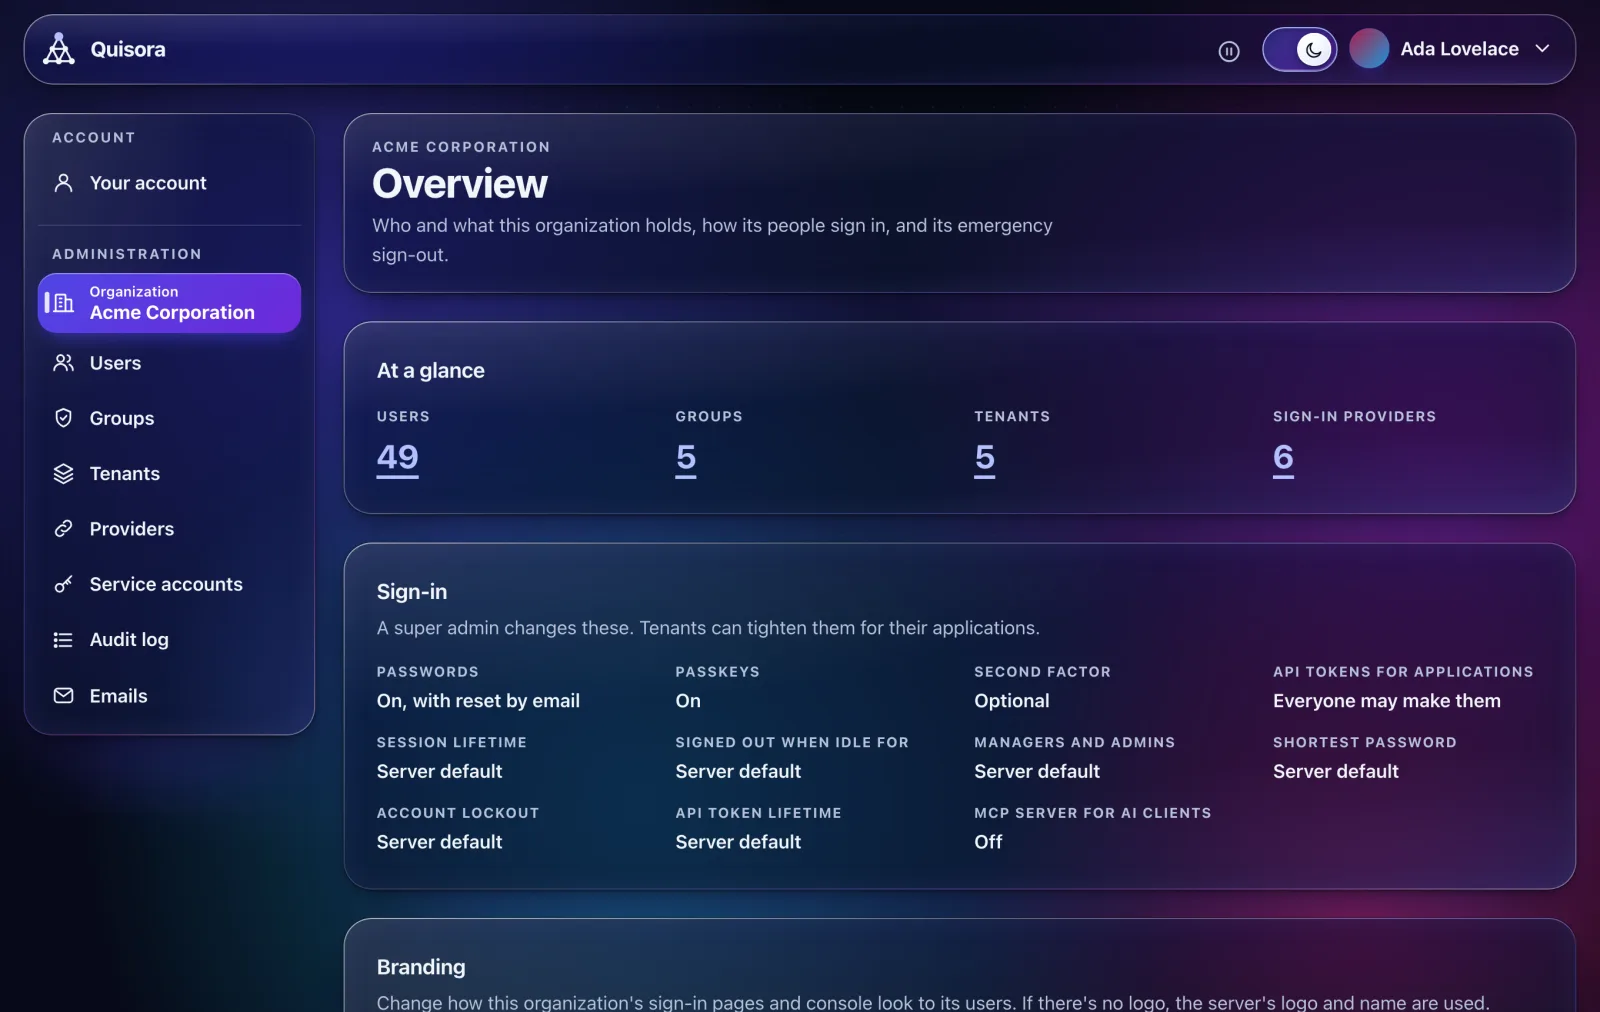
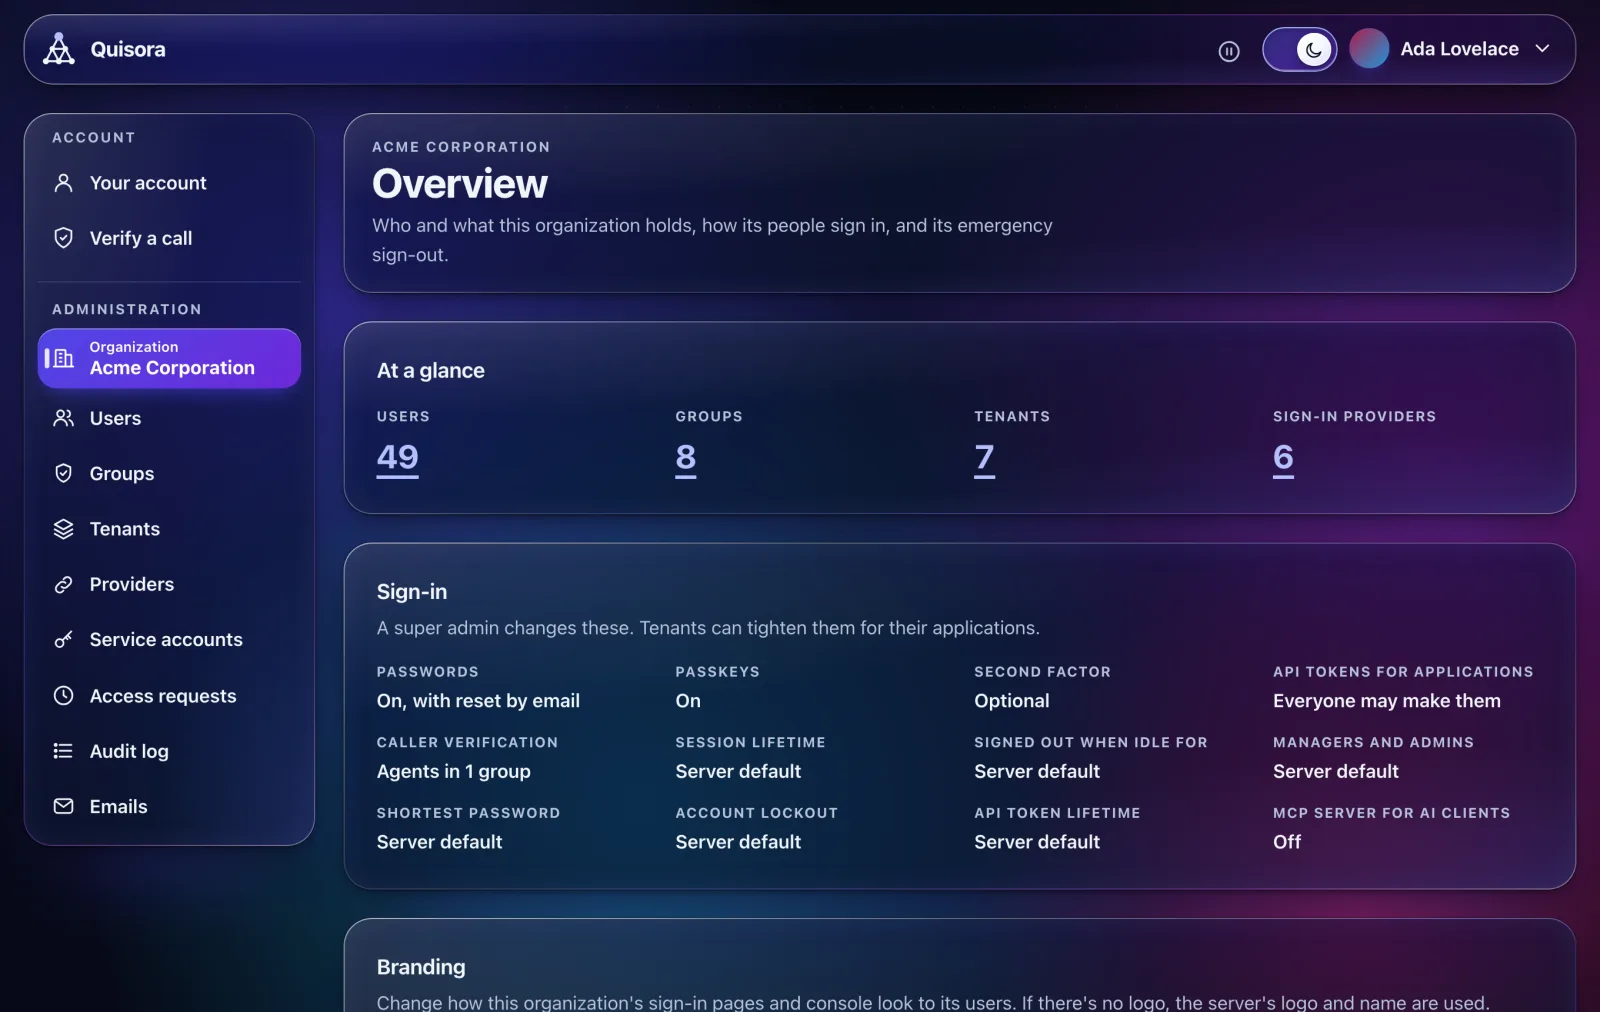
Docs: Verifying callers, a support agent confirms the person on a call is the account holder (setting it up, the agent's side, the caller's side, from a CRM, the relayed-code scam, records); call_verify token scope, call_verify.* audit events and the SOC 2 evidence row; organization overview shot re

diff --git a/content/docs/security/verifying-callers.md b/content/docs/security/verifying-callers.md
@@ -1,0 +1,154 @@
+---
+title: "Verifying callers"
+description: "Let your support team confirm that the person on a phone call is really the account holder."
+weight: 35
+---
+
+When someone phones your support team and says "I'm Alan", how does the agent know? Asking for a password or the
+answer to a security question is risky: anyone who learns it can use it again, and a scammer can talk an agent round.
+
+Caller verification gives the agent a better way. The agent starts a verification and reads a six-digit code to the
+caller. The caller opens their own account, enters the code, sees who is asking, and confirms it is them with their
+passkey or second factor. The agent's screen then shows **Confirmed**.
+
+Why it helps:
+
+- **Nothing secret is said on the phone.** The code works once, for that one person, for 5 minutes.
+- **Nothing is sent to the caller.** No link and no email. They go to their own account on the address they already
+  know, so nobody can send them to a look-alike page.
+- **The caller sees who is really asking.** Entering the code shows them the agent's name and email, the organization,
+  and why. If that's not who they think they are talking to, they can say so.
+
+## Setting it up
+
+A **super admin** turns it on, one organization at a time.
+
+1. Make a group for the people who verify callers, such as *Customer support*, and add the agents to it. These people
+   are called **agents**.
+2. Open **Organizations** and edit the organization.
+3. Under **Caller verification**, turn on **Agents can verify callers**.
+4. In **Agent groups**, type the group's name and choose it. You can add more than one group.
+5. Choose **Save changes**.
+
+{{< screenshot name="verify-settings" alt="The Edit organization dialog with Caller verification: Agents can verify callers on, the Customer support agent group, and the switch that lets the primary organization's agents verify this organization's people" class="max-w-2xl" >}}
+
+Agents verify the people of their own organization. While the switch is on, only administrators can change who is in
+an agent group. Managers can't add themselves or anyone else.
+
+**Let the primary organization's agents verify this organization's people** is offered in every organization except
+the primary one. Turn it on if your own support team, in the primary organization, also supports this organization's
+people. Only the primary organization's agents can ever verify people of another organization.
+
+Once it is on, people who can be verified see **Verify a call** in their account menu. Agents also see
+**Verify a caller** at the top of theirs.
+
+## Verifying a caller
+
+This is the agent's side.
+
+1. Open the account menu and choose **Verify a caller**.
+2. If you are an agent of the primary organization and another organization lets you verify its people, choose the
+   **Organization** first. It starts as your own.
+3. In **Person**, type the start of the caller's name, username or email, and choose them.
+4. Under **Who called?**, choose **They called us** or **We called them**. Only call people on the number held for
+   their account, never a number the caller gives you.
+5. Optionally fill in **Why**, such as the ticket you are talking about. The caller sees it.
+6. Choose **Start verification**.
+
+{{< screenshot name="verify-caller-start" alt="The Verify a caller page with Alan Turing chosen, They called us selected and a reason filled in" >}}
+
+7. Read the code to the caller. Tell them to open **Verify a call** in their account menu. The page shows the address
+   too.
+
+{{< screenshot name="verify-caller-waiting" alt="Verify a caller while waiting: the six-digit code to read out, how long it works, and today's verifications below with each result" >}}
+
+The page shows the answer as soon as the caller gives it:
+
+| Result | What it means |
+| --- | --- |
+| **Waiting** | The caller has not answered yet. The code works for 5 minutes. |
+| **Confirmed** | The caller entered the code and confirmed it is them with a passkey or second factor. If their account has neither, they confirmed with their password alone, and the page says so. |
+| **Not them** | The caller entered the code and chose **Not me**. Treat the call with suspicion. |
+| **Ran out** | Nobody entered the code in time. Start again if you need to. |
+| **Cancelled** | You stopped it. |
+
+**Your verifications today** lists the ones you started, with the newest first. A waiting one has **Open** and
+**Cancel**.
+
+If you reload the page, the waiting verification comes back with its code. In another browser it comes back without
+the code: cancel it and start a new one if the caller hasn't got it.
+
+An agent can't verify themselves, or a super admin. Each agent can start up to 60 verifications an hour.
+
+## Verifying a call
+
+This is the caller's side: someone on a call with your support team.
+
+1. Open the account menu and choose **Verify a call**.
+2. Look at **Verifying you now**. It shows who has started a verification for you, from which organization, and why.
+   It never shows the code. If someone on the phone asks you for a code and nobody shows here, they didn't start a
+   verification.
+3. Enter the six digits you were given. They are checked as soon as all six are in.
+
+{{< screenshot name="verify-call-enter" alt="The Verify a call page: Grace Hopper of Acme Corporation is verifying you now, the boxes for the code, and the Who verified you list" >}}
+
+4. Check what the page shows: who is asking, from where, who placed the call (such as "You called Acme
+   Corporation"), and why.
+5. Read the warning. Only confirm if you are on a call with that person right now, and the call went the way the page
+   says.
+6. Choose **Yes, it's me**. You may be asked for your passkey or second factor first, unless you used it in the last 5
+   minutes. Or choose **Not me** if it isn't your call, and the agent sees **Not them**.
+
+{{< screenshot name="verify-call-ask" alt="Is this you? Who is asking, from which organization, who placed the call and why, a warning, and the buttons Yes, it's me and Not me" >}}
+
+After 5 wrong codes in 10 minutes, the page stops taking codes for a while.
+
+**Who verified you**, lower on the same page, lists everyone who asked to verify you: who, from where, when, and what
+came of it. If you see one you don't recognise, tell the organization it came from.
+
+## From a CRM or helpdesk
+
+Your CRM or helpdesk can have its own **Verify** button that does what the page does. It always acts as the agent, so
+the caller sees the agent's own name. A service account can't verify callers.
+
+There are two ways to connect it:
+
+- **The agent's personal API token** with the `call_verify` scope. Agents see **Verify callers as you** when they make
+  a token on their account page. The CRM keeps one token for each agent. See [API tokens](/docs/automation/api-tokens/).
+- **The agent signs in to the CRM through Quisora.** The CRM asks for the organization's caller verification API as a
+  resource, and calls it with the agent's own short-lived token. The organization's overview lists that address under
+  **Addresses** as **Caller verification API (for CRMs)** while caller verification is on. Add the same address under
+  **Resources** on the CRM's application in Quisora, as for an [MCP client](/docs/automation/mcp/).
+
+The calls are in the API reference at `/api-docs/` on your server.
+
+## What it proves, and what it doesn't
+
+A confirmed verification means the person on the call was signed in to that account and confirmed it is them with
+what the account signs in with. It says nothing more about who they are in the world than the account itself does.
+
+**Watch for the relayed code.** A scammer can phone your customer pretending to be you, while also phoning your support
+team pretending to be the customer. When your agent reads the code, the scammer passes it to the real customer, who
+enters it.
+
+**Who called?** catches this. Your agent records that the "customer" called them. So the real customer's page says
+"You called Acme Corporation", but they know they were the one who was called. The warning tells them to choose
+**Not me**. And because agents only call out on the number held for the account, a scammer can't be on the end of a
+call your team makes.
+
+Even so, treat a verification as one piece of evidence, not the only one, before anything that can't be undone.
+
+## Records and audit
+
+Quisora keeps each verification for 30 days, so the caller's **Who verified you** goes back that far. The agent's
+page lists today's. The [audit log](/docs/running/audit-log/) keeps the full history in both organizations, the
+agent's and the caller's:
+
+| Event | When |
+| --- | --- |
+| `call_verify.start` | An agent started a verification. With the reason, if one was given. |
+| `call_verify.confirm` | The caller confirmed it is them. `detail.second_factor` says whether with a passkey or second factor. |
+| `call_verify.deny` | The caller chose **Not me**. |
+| `call_verify.cancel` | The agent cancelled it. |
+
+For SOC 2 evidence, see [SOC 2 with Quisora and VictoriaLogs](/docs/security/soc2/).

diff --git a/content/docs/running/audit-log.md b/content/docs/running/audit-log.md
@@ -36,7 +36,7 @@ and never changes afterwards.
 | --- | --- |
 | Sign-in | `login.success` (`audit.logins = false` turns it off), `login.failure`, `login.lockout`, `login.limited`, `org.spray.start` and `org.spray.end`, `logout`, `login.session.evict`, `passkey.clone`, `login.recovery_code`, `mfa.import`, `login.email_code.sent`, `password.forgot`, `password.reset`, `invite.accept` |
 | OAuth and OpenID Connect | `oauth.consent`, `oauth.grant`, `oauth.token_exchange`, `oauth.device.approve`, `oauth.revoke`, `oauth.grant.evict`, `oauth.code.replay`, `oauth.refresh.reuse`, `oauth.client_auth.limited`. With `audit.tokens = true` also `oauth.refresh`, `oauth.client_credentials` and `oauth.device.start`. |
-| Administration | Users, groups, organizations, tenants, access, [access requests](/docs/access/access-requests/#records-and-audit) (`access_request.*`), clients, providers, API tokens, service accounts, invitations, `user.locked_out`, signing keys (`keys.create`, `keys.rotate`, `keys.remove`), SSH certificate authorities (`ssh.*`), `backup.download`, `backup.restore`, `cluster.force_start`, `cluster.reload`, `config.reload` |
+| Administration | Users, groups, organizations, tenants, access, [access requests](/docs/access/access-requests/#records-and-audit) (`access_request.*`), [caller verification](/docs/security/verifying-callers/#records-and-audit) (`call_verify.*`), clients, providers, API tokens, service accounts, invitations, `user.locked_out`, signing keys (`keys.create`, `keys.rotate`, `keys.remove`), SSH certificate authorities (`ssh.*`), `backup.download`, `backup.restore`, `cluster.force_start`, `cluster.reload`, `config.reload` |
 | API access | `api.request.refused` and `apitoken.refused`: a refused management API or SCIM request, and a token presented with a wrong secret or after it was ended. At most once a minute per token or caller and reason on each node. |
 | Emergency sign-out | `org.signout` and `server.signout`, then `signout.sweep` |
 | Account self-service | `account.*`: passkeys, authenticator app, recovery codes, sessions, applications, connected providers, email verification |

diff --git a/content/docs/security/soc2.md b/content/docs/security/soc2.md
@@ -111,6 +111,7 @@ events leave the spool as `audit.undelivered`. Keep the queries and their result
 | --- | --- | --- |
 | Access reviews (CC6.2, CC6.3) | Each organization's administrators, managers and their last sign-in, reviewed and signed off each quarter | The Users page filtered by role, saved with the reviewer's sign-off; changes show as `user.update` events |
 | Joiners and leavers (CC6.2) | Accounts created, invited, disabled, locked out, ended and deleted, matched to HR records | `action:user.create OR action:user.provision OR action:user.invite OR action:user.update OR action:user.password OR action:user.locked_out OR action:user.expire OR action:user.delete` |
+| Caller verification (CC6.1) | Which agent asked to verify which person, why, and whether the person confirmed it was them (and whether with a second factor) or said it was not | `action:call_verify.*` (`start`, `confirm`, `deny`, `cancel`; `detail.reason`, `detail.second_factor`), recorded in both the agent's and the caller's organization |
 | Access requests (CC6.2, CC6.3) | Who asked for access to which tenant, for how long and why, who approved or denied it (a person who confirmed their second factor, or a permitted service account), and when the access ended | `action:access_request.*` (`create`, `approve`, `deny`, `cancel`, `lapse`, `end`; `detail.reason`, `detail.note`, `detail.ends`); the console's Access requests page |
 | Tenant access (CC6.2, CC6.3) | Who was given access to a tenant's applications, until when and why (the `reason` an approving tool sends, such as its ticket), changes to it, its removal, and access that ended by itself | `action:tenant.access.*` (`detail.expires` in UTC, `detail.reason`) |
 | Privileged changes (CC6.3) | Role changes | `detail.changed.role:*` |

diff --git a/content/docs/automation/api-tokens.md b/content/docs/automation/api-tokens.md
@@ -28,6 +28,7 @@ is made. If you are demoted or your account is disabled, the token loses that ac
 | `import` | Super admins | With `admin`: create users with the password hash, authenticator secret and provider links they had in another system |
 | `api` | Whoever the organization allows | Nothing in Quisora itself: it is for your own applications, which check it with Quisora |
 | `access_requests` | Everyone | Your own [access requests](/docs/access/access-requests/): ask, list, cancel and end your own access. Never approve. |
+| `call_verify` | Agents | [Verify callers](/docs/security/verifying-callers/#from-a-crm-or-helpdesk) as you, from a CRM or helpdesk. Offered to members of your organization's agent groups. |
 
 `import` works only together with `admin`. An `api` token cannot carry any other scope.
 Make one token for each job.

diff --git a/content/docs/security/_index.md b/content/docs/security/_index.md
@@ -13,6 +13,7 @@ what you need to run it safely, what to do when something goes wrong, and what a
 - Harden the server before production, and respond to an incident: [running Quisora securely](/docs/security/running-securely/)
 - Keep the master key and other secrets in a secret store: [secrets in Vault or 1Password](/docs/security/secret-stores/)
 - Sign everyone out at once, or lock one person out: [emergency sign-out and lock-out](/docs/security/emergency-sign-out/)
+- Let your support team confirm who is on a phone call: [verifying callers](/docs/security/verifying-callers/)
 - Find out what personal data Quisora keeps: [personal data in Quisora](/docs/security/privacy/)
 - Collect the evidence auditors ask for: [SOC 2 with Quisora and VictoriaLogs](/docs/security/soc2/)
 

diff --git a/content/docs/access/_index.md b/content/docs/access/_index.md
@@ -16,6 +16,7 @@ groups.
 - Give access that ends at a set time: [access for a limited time](/docs/access/timed-access/).
 - Let people ask for access, and have someone approve it: [access requests](/docs/access/access-requests/).
 - Let people from another organization in as guests: [guest accounts](/docs/sign-in/guest-accounts/).
+- Let your support team confirm that a caller is the account holder: [verifying callers](/docs/security/verifying-callers/).
 
 ## Tenants
 
